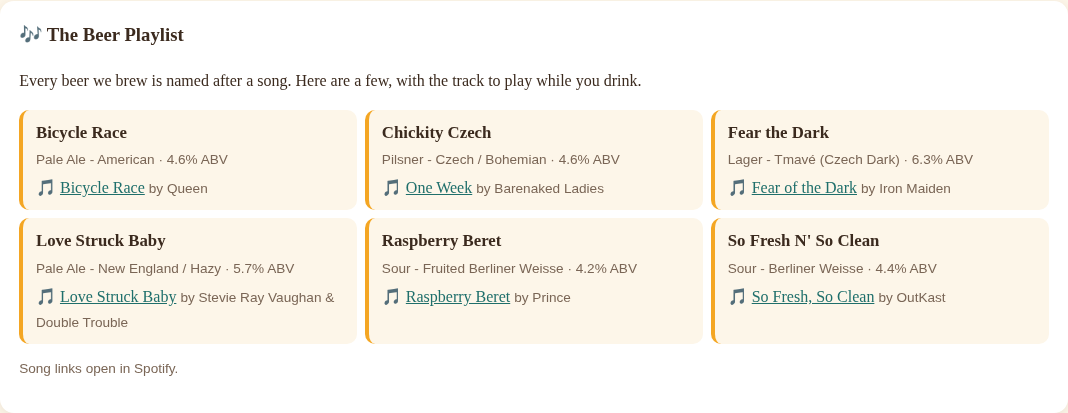
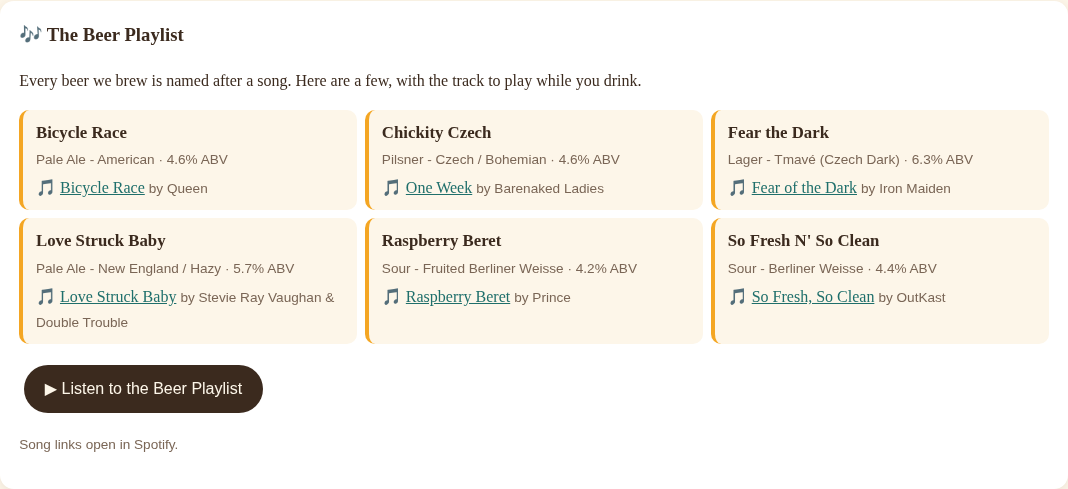
Remove YouTube Music playlist button

diff --git a/preview-bwr/index.html b/preview-bwr/index.html
@@ -10,7 +10,7 @@
 <div class="card"><h2>Hours</h2><table class="hours"><tr><td>Mon–Thu</td><td>12–9 PM</td></tr><tr><td>Friday</td><td>12–10 PM</td></tr><tr><td>Saturday</td><td>11 AM–10 PM</td></tr><tr><td>Sunday</td><td>11 AM–7 PM</td></tr></table></div>
 <div class="card"><h2>This week</h2><p><strong>Friday 6 PM:</strong> Happy Hour Trivia with <a href="https://bigtrophytrivia.com/brighter-days">Big Trophy Trivia</a>.</p><p><strong>Live music Thursdays and First Fridays.</strong></p><div id="homeEvents"></div><p><a href="events.html">All events →</a> · <a href="food-trucks.html">Food trucks →</a></p></div>
 </div>
-<h2>On tap now</h2><div class="card"><p>Most of our beers are named after songs. Our tap list updates live as kegs change.</p><section><h3 style="margin:.4rem 0">🎶 From the Beer Playlist</h3><div id="home-pl"></div></section><p><a class="btn" href="taps.html#playlist">See the full playlist &amp; tap list</a> <a class="btn alt" href="https://music.youtube.com/playlist?list=PLKCt0o8tx8pw" target="_blank" rel="noopener">▶ Listen to the Beer Playlist</a></p></div>
+<h2>On tap now</h2><div class="card"><p>Most of our beers are named after songs. Our tap list updates live as kegs change.</p><section><h3 style="margin:.4rem 0">🎶 From the Beer Playlist</h3><div id="home-pl"></div></section><p><a class="btn" href="taps.html#playlist">See the full playlist &amp; tap list</a></p></div>
 <figure class="band"><picture><source srcset="assets/img/home-rainbow.webp" type="image/webp"><img src="assets/img/home-rainbow.jpg" alt="A rainbow arching over the brewery and palm trees" loading="lazy" width="1600" height="685"></picture></figure><h2>Find us</h2><iframe class="map" loading="lazy" title="Map to 311 N Safford Ave, Tarpon Springs" src="https://maps.google.com/maps?q=311%20N%20Safford%20Ave%2C%20Tarpon%20Springs%2C%20FL%2034689&z=16&output=embed"></iframe><p><a href="https://www.google.com/maps/dir/?api=1&destination=311+N+Safford+Ave+Tarpon+Springs+FL+34689">Get directions</a> · <a href="tel:+17279402350">(727) 940-2350</a></p></main>
 <footer><div class="grid"><div><img src="assets/img/logo/bd-logo-main-white.svg" alt="Brighter Days Brew Co., Tarpon Springs, FL" style="width:200px;height:auto;display:block;margin-bottom:.6rem"><strong>Brighter Days Brewing Company</strong><br>311 N Safford Ave<br>Tarpon Springs, FL 34689<br>On the Pinellas Trail</div><div><a href="tel:+17279402350">(727) 940-2350</a><br><a href="mailto:aaron@brighterdaysbeer.com">aaron@brighterdaysbeer.com</a><br><a href="https://instagram.com/brighterdaysbrewco">Instagram @brighterdaysbrewco</a><br><a href="https://www.facebook.com/282372538847975">Facebook</a></div><div>Hours<br>Mon–Thu 12–9 PM<br>Fri 12–10 PM · Sat 11 AM–10 PM<br>Sun 11 AM–7 PM</div></div><p style="text-align:center;opacity:.7">© 2026 Brighter Days Brewing Company · Theme preview (white/black/red)</p></footer>
 <script src="assets/site.js?v=20261014b"></script><script src="data/events.js"></script><script>renderEvents(document.getElementById("homeEvents"),3)</script><script>renderPlaylist(document.getElementById("home-pl"),3)</script></body></html>

diff --git a/index.html b/index.html
@@ -10,7 +10,7 @@
 <div class="card"><h2>Hours</h2><table class="hours"><tr><td>Mon–Thu</td><td>12–9 PM</td></tr><tr><td>Friday</td><td>12–10 PM</td></tr><tr><td>Saturday</td><td>11 AM–10 PM</td></tr><tr><td>Sunday</td><td>11 AM–7 PM</td></tr></table></div>
 <div class="card"><h2>This week</h2><p><strong>Friday 6 PM:</strong> Happy Hour Trivia with <a href="https://bigtrophytrivia.com/brighter-days">Big Trophy Trivia</a>.</p><p><strong>Live music Thursdays and First Fridays.</strong></p><div id="homeEvents"></div><p><a href="events.html">All events →</a> · <a href="food-trucks.html">Food trucks →</a></p></div>
 </div>
-<h2>On tap now</h2><div class="card"><p>Most of our beers are named after songs. Our tap list updates live as kegs change.</p><section><h3 style="margin:.4rem 0">🎶 From the Beer Playlist</h3><div id="home-pl"></div></section><p><a class="btn" href="taps.html#playlist">See the full playlist &amp; tap list</a> <a class="btn alt" href="https://music.youtube.com/playlist?list=PLKCt0o8tx8pw" target="_blank" rel="noopener">▶ Listen to the Beer Playlist</a></p></div>
+<h2>On tap now</h2><div class="card"><p>Most of our beers are named after songs. Our tap list updates live as kegs change.</p><section><h3 style="margin:.4rem 0">🎶 From the Beer Playlist</h3><div id="home-pl"></div></section><p><a class="btn" href="taps.html#playlist">See the full playlist &amp; tap list</a></p></div>
 <figure class="band"><picture><source srcset="assets/img/home-rainbow.webp" type="image/webp"><img src="assets/img/home-rainbow.jpg" alt="A rainbow arching over the brewery and palm trees" loading="lazy" width="1600" height="685"></picture></figure><h2>Find us</h2><iframe class="map" loading="lazy" title="Map to 311 N Safford Ave, Tarpon Springs" src="https://maps.google.com/maps?q=311%20N%20Safford%20Ave%2C%20Tarpon%20Springs%2C%20FL%2034689&z=16&output=embed"></iframe><p><a href="https://www.google.com/maps/dir/?api=1&destination=311+N+Safford+Ave+Tarpon+Springs+FL+34689">Get directions</a> · <a href="tel:+17279402350">(727) 940-2350</a></p></main>
 <footer><div class="grid"><div><img src="assets/img/logo/bd-logo-main-white.svg" alt="Brighter Days Brew Co., Tarpon Springs, FL" style="width:200px;height:auto;display:block;margin-bottom:.6rem"><strong>Brighter Days Brewing Company</strong><br>311 N Safford Ave<br>Tarpon Springs, FL 34689<br>On the Pinellas Trail</div><div><a href="tel:+17279402350">(727) 940-2350</a><br><a href="mailto:aaron@brighterdaysbeer.com">aaron@brighterdaysbeer.com</a><br><a href="https://instagram.com/brighterdaysbrewco">Instagram @brighterdaysbrewco</a><br><a href="https://www.facebook.com/282372538847975">Facebook</a></div><div>Hours<br>Mon–Thu 12–9 PM<br>Fri 12–10 PM · Sat 11 AM–10 PM<br>Sun 11 AM–7 PM</div></div><p style="text-align:center;opacity:.7">© 2026 Brighter Days Brewing Company · Preview build</p></footer>
 <script src="assets/site.js?v=20261014b"></script><script src="data/events.js"></script><script>renderEvents(document.getElementById("homeEvents"),3)</script><script>renderPlaylist(document.getElementById("home-pl"),3)</script></body></html>

diff --git a/preview-bwr/taps.html b/preview-bwr/taps.html
@@ -3,7 +3,7 @@
 <link rel="icon" href="favicon.ico" sizes="any"><link rel="icon" type="image/png" sizes="32x32" href="assets/img/logo/favicon-32.png"><link rel="icon" type="image/png" sizes="16x16" href="assets/img/logo/favicon-16.png"><link rel="icon" type="image/png" sizes="192x192" href="assets/img/logo/favicon-192.png"><link rel="apple-touch-icon" href="assets/img/logo/apple-touch-icon.png">
 <link rel="stylesheet" href="assets/style.css?v=20261014b"><link rel="stylesheet" href="assets/theme-bwr.css?v=1"></head><body>
 <header><div class="nav"><a class="logo" href="index.html" aria-label="Brighter Days Brew Co. home"><img class="logo-full" src="assets/img/logo/bd-logo-main-black.svg" alt="Brighter Days Brew Co., Tarpon Springs, FL" width="690" height="353"><img class="logo-mark" src="assets/img/logo/bd-starburst-black.png" alt="Brighter Days Brew Co." width="200" height="200"></a><button id="menuBtn" aria-label="Menu">☰</button><nav><ul><li><a href="index.html">Home</a></li><li><a href="taps.html" class=on>Tap List</a></li><li><a href="events.html">Events</a></li><li><a href="food-trucks.html">Food Trucks</a></li><li><a href="private-events.html">Private Events</a></li><li><a href="spaces.html">Spaces</a></li><li><a href="story.html">Our Story</a></li><li><a href="contact.html">Contact</a></li></ul></nav></div></header>
-<main><h2>Tap list</h2><p>Most of our beers are named after songs. Here's what's pouring right now.</p><section id="playlist" class="card" style="margin:0 0 1.5rem"><h3 style="margin-top:0">🎶 The Beer Playlist</h3><p>Every beer we brew is named after a song. Here are a few, with the track to play while you drink.</p><div id="pl"></div><p><a class="btn" href="https://music.youtube.com/playlist?list=PLKCt0o8tx8pw" target="_blank" rel="noopener">▶ Listen to the Beer Playlist</a></p><p class="small">Song links open in Spotify.</p></section><div id="menu-container"></div>
+<main><h2>Tap list</h2><p>Most of our beers are named after songs. Here's what's pouring right now.</p><section id="playlist" class="card" style="margin:0 0 1.5rem"><h3 style="margin-top:0">🎶 The Beer Playlist</h3><p>Every beer we brew is named after a song. Here are a few, with the track to play while you drink.</p><div id="pl"></div><p class="small">Song links open in Spotify.</p></section><div id="menu-container"></div>
 <script type="text/javascript">
 !function(e,t){var n=document.createElement("script"),a=document.getElementsByTagName("script")[0];n.async=1,a.parentNode.insertBefore(n,a),n.onload=n.onreadystatechange=function(e,a){(a||!n.readyState||/loaded|complete/.test(n.readyState))&&(n.onload=n.onreadystatechange=null,a||t&&t())},n.src=e}("https://embed-menu-preloader.untappdapi.com/embed-menu-preloader.min.js",(function(){PreloadEmbedMenu("menu-container",48872,174590)}));
 </script><noscript><p>Turn on JavaScript to see the tap list, or call us at <a href="tel:+17279402350">(727) 940-2350</a>.</p></noscript></main>

diff --git a/taps.html b/taps.html
@@ -3,7 +3,7 @@
 <link rel="icon" href="favicon.ico" sizes="any"><link rel="icon" type="image/png" sizes="32x32" href="assets/img/logo/favicon-32.png"><link rel="icon" type="image/png" sizes="16x16" href="assets/img/logo/favicon-16.png"><link rel="icon" type="image/png" sizes="192x192" href="assets/img/logo/favicon-192.png"><link rel="apple-touch-icon" href="assets/img/logo/apple-touch-icon.png">
 <link rel="stylesheet" href="assets/style.css?v=20261014b"></head><body>
 <header><div class="nav"><a class="logo" href="index.html" aria-label="Brighter Days Brew Co. home"><img class="logo-full" src="assets/img/logo/bd-logo-main-white.svg" alt="Brighter Days Brew Co., Tarpon Springs, FL" width="690" height="353"><img class="logo-mark" src="assets/img/logo/bd-starburst-white.png" alt="Brighter Days Brew Co." width="200" height="200"></a><button id="menuBtn" aria-label="Menu">☰</button><nav><ul><li><a href="index.html">Home</a></li><li><a href="taps.html" class=on>Tap List</a></li><li><a href="events.html">Events</a></li><li><a href="food-trucks.html">Food Trucks</a></li><li><a href="private-events.html">Private Events</a></li><li><a href="spaces.html">Spaces</a></li><li><a href="story.html">Our Story</a></li><li><a href="contact.html">Contact</a></li></ul></nav></div></header>
-<main><h2>Tap list</h2><p>Most of our beers are named after songs. Here's what's pouring right now.</p><section id="playlist" class="card" style="margin:0 0 1.5rem"><h3 style="margin-top:0">🎶 The Beer Playlist</h3><p>Every beer we brew is named after a song. Here are a few, with the track to play while you drink.</p><div id="pl"></div><p><a class="btn" href="https://music.youtube.com/playlist?list=PLKCt0o8tx8pw" target="_blank" rel="noopener">▶ Listen to the Beer Playlist</a></p><p class="small">Song links open in Spotify.</p></section><div id="menu-container"></div>
+<main><h2>Tap list</h2><p>Most of our beers are named after songs. Here's what's pouring right now.</p><section id="playlist" class="card" style="margin:0 0 1.5rem"><h3 style="margin-top:0">🎶 The Beer Playlist</h3><p>Every beer we brew is named after a song. Here are a few, with the track to play while you drink.</p><div id="pl"></div><p class="small">Song links open in Spotify.</p></section><div id="menu-container"></div>
 <script type="text/javascript">
 !function(e,t){var n=document.createElement("script"),a=document.getElementsByTagName("script")[0];n.async=1,a.parentNode.insertBefore(n,a),n.onload=n.onreadystatechange=function(e,a){(a||!n.readyState||/loaded|complete/.test(n.readyState))&&(n.onload=n.onreadystatechange=null,a||t&&t())},n.src=e}("https://embed-menu-preloader.untappdapi.com/embed-menu-preloader.min.js",(function(){PreloadEmbedMenu("menu-container",48872,174590)}));
 </script><noscript><p>Turn on JavaScript to see the tap list, or call us at <a href="tel:+17279402350">(727) 940-2350</a>.</p></noscript></main>
